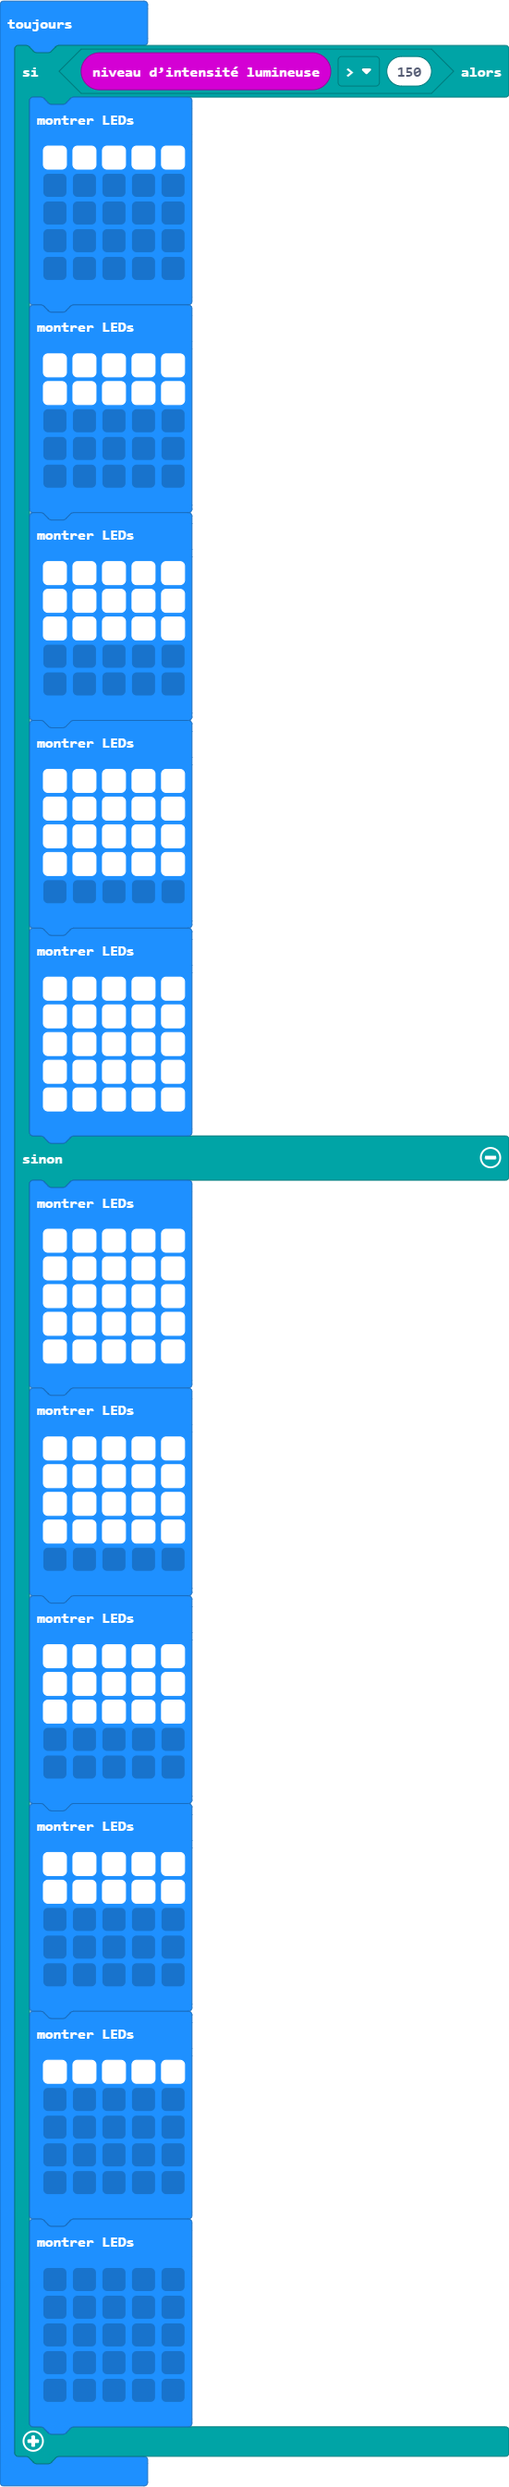
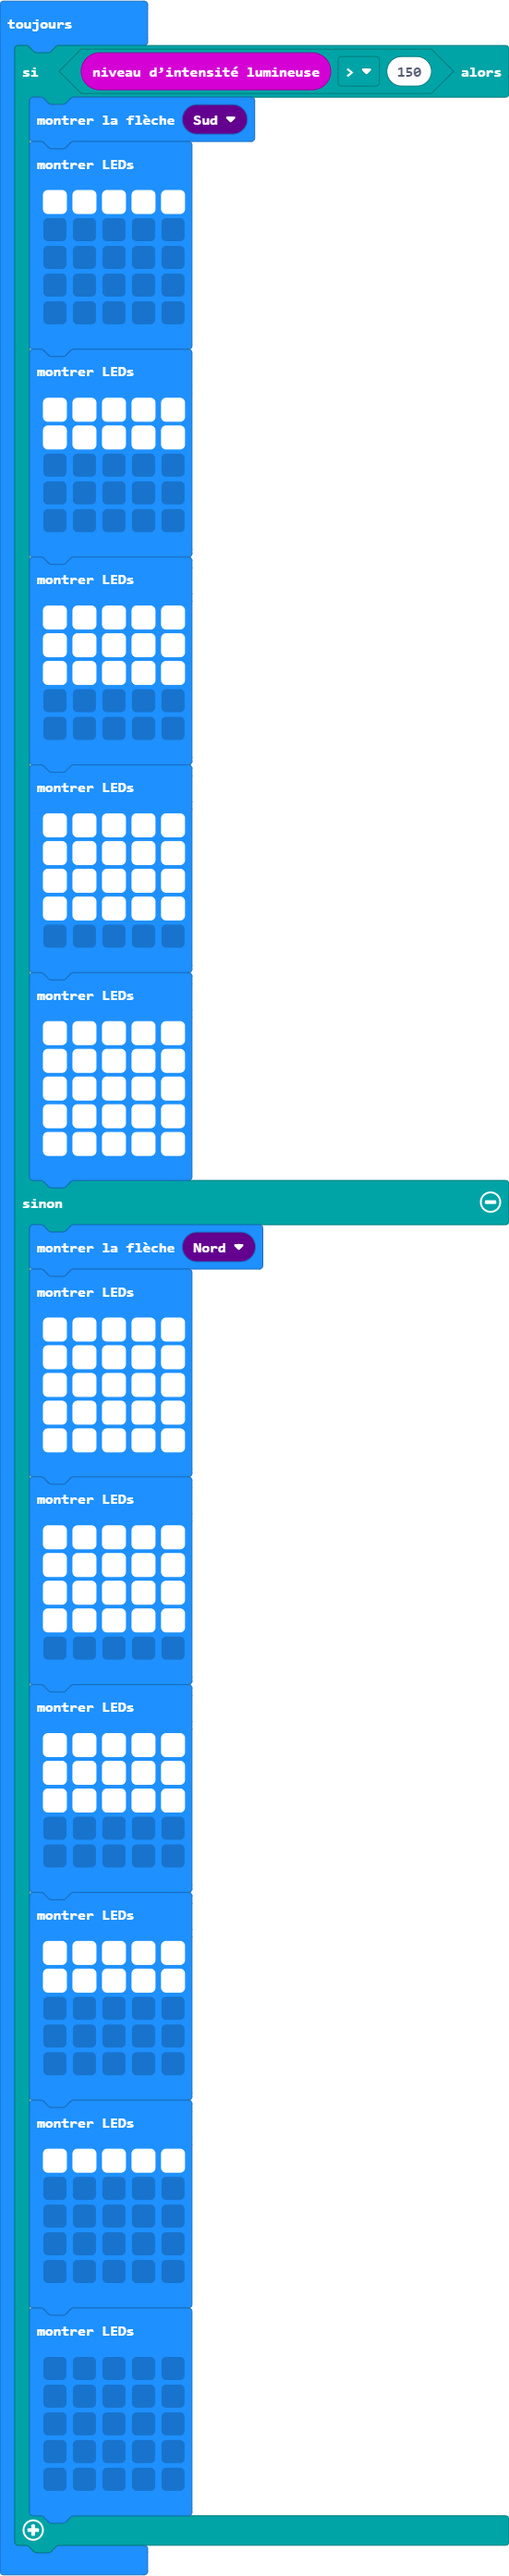
Ajout de fleche sur le projet

diff --git a/main.ts b/main.ts
@@ -1,5 +1,6 @@
 basic.forever(function () {
     if (input.lightLevel() > 150) {
+        basic.showArrow(ArrowNames.South)
         basic.showLeds(`
             # # # # #
             . . . . .
@@ -36,6 +37,7 @@ basic.forever(function () {
             # # # # #
             `)
     } else {
+        basic.showArrow(ArrowNames.North)
         basic.showLeds(`
             # # # # #
             # # # # #
